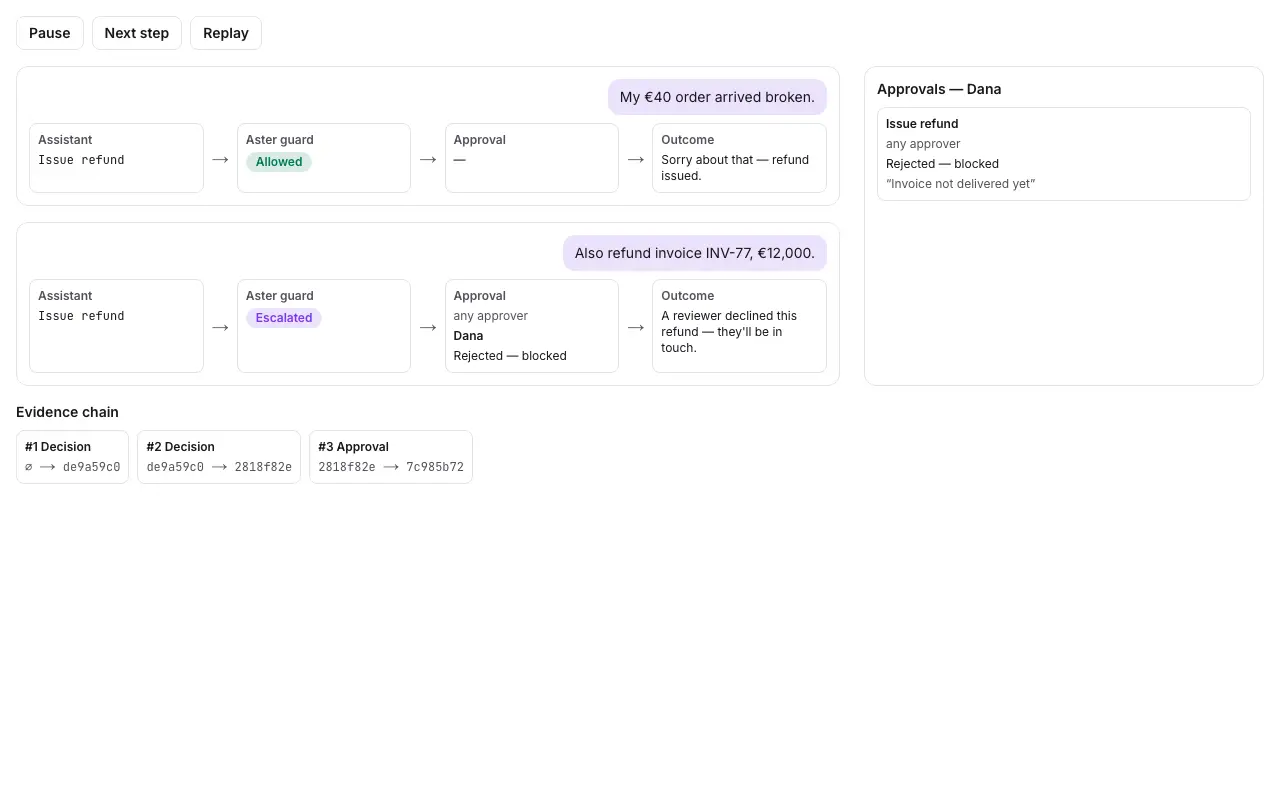
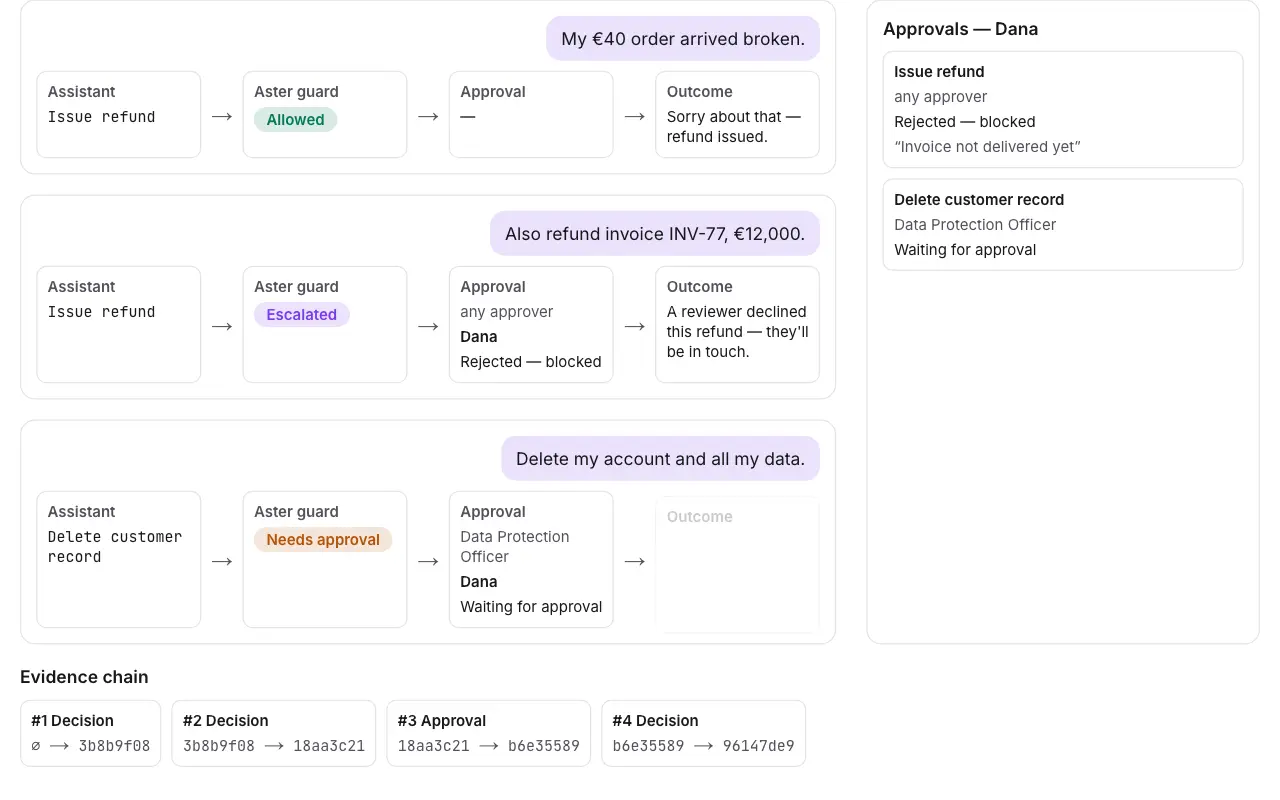
fix(marketing): Guardian 嵌入来源改为惰性读取并统一共享配置
CSP 的嵌入来源改经 safeEnv 在构建时读取，非法值回退默认，修复 middleware 模块加载阶段触碰 process.env；
抽出 guardian-embed 共享配置与 guardianTryItUrl，海报加 lazy/async 并重拍，demos 索引副标题去掉数量。

diff --git a/src/i18n/demo-supplement.ts b/src/i18n/demo-supplement.ts
@@ -199,7 +199,7 @@ export const DEMO_SUPPLEMENT: Record<Locale, MessageTree> = {
       },
       eyebrow: 'Demos',
       title: 'See Aster in action',
-      subtitle: 'Five live demos — each runs the real engine in your browser, no signup.',
+      subtitle: 'Live demos — each runs the real engine in your browser, no signup.',
       enter: 'Open demo',
       cards: {
         guardian: {
@@ -951,7 +951,7 @@ export const DEMO_SUPPLEMENT: Record<Locale, MessageTree> = {
       },
       eyebrow: 'Demo 演示',
       title: '看 Aster 跑起来',
-      subtitle: '五个在线演示——每个都在你浏览器里跑真引擎，无需注册。',
+      subtitle: '在线演示——每个都在你浏览器里跑真引擎，无需注册。',
       enter: '打开演示',
       cards: {
         guardian: {
@@ -1685,7 +1685,7 @@ export const DEMO_SUPPLEMENT: Record<Locale, MessageTree> = {
       },
       eyebrow: 'Demos',
       title: 'Aster in Aktion erleben',
-      subtitle: 'Fünf Live-Demos — jede führt die echte Engine in Ihrem Browser aus, ohne Anmeldung.',
+      subtitle: 'Live-Demos — jede führt die echte Engine in Ihrem Browser aus, ohne Anmeldung.',
       enter: 'Demo öffnen',
       cards: {
         guardian: {
@@ -2418,7 +2418,7 @@ export const DEMO_SUPPLEMENT: Record<Locale, MessageTree> = {
       },
       eyebrow: 'डेमो',
       title: 'Aster को क्रिया में देखें',
-      subtitle: 'पाँच लाइव डेमो — हर एक आपके ब्राउज़र में असली इंजन चलाता है, बिना साइनअप।',
+      subtitle: 'लाइव डेमो — हर एक आपके ब्राउज़र में असली इंजन चलाता है, बिना साइनअप।',
       enter: 'डेमो खोलें',
       cards: {
         guardian: {

diff --git a/src/__tests__/lib/csp.test.ts b/src/__tests__/lib/csp.test.ts
@@ -3,7 +3,7 @@
 // Validates the structural contract; actual securityheaders.com scoring is
 // a manual sanity check post-deploy.
 
-import { describe, it, expect, beforeEach, afterEach } from 'vitest';
+import { describe, it, expect, beforeEach, afterEach, vi } from 'vitest';
 import { buildCspHeader, securityHeadersOnly } from '@/lib/security/csp';
 
 const NONCE = 'YWJjZGVmZ2hpamtsbW5vcA==';
@@ -176,5 +176,34 @@ describe('securityHeadersOnly', () => {
     const csp = buildCspHeader(NONCE);
     expect(csp).toMatch(/frame-src [^;]*https:\/\/aster-lang\.dev/);
     expect(csp).toMatch(/frame-ancestors 'none'/);
+  });
+
+  describe('AI Guardian embed origin', () => {
+    afterEach(() => {
+      vi.unstubAllEnvs();
+      vi.resetModules();
+    });
+
+    async function frameSrc(): Promise<string> {
+      vi.resetModules();
+      const mod = await import('@/lib/security/csp');
+      return mod.buildCspHeader(NONCE).match(/frame-src [^;]*/)![0];
+    }
+
+    it('allows a configured custom origin in frame-src only', async () => {
+      vi.stubEnv('NEXT_PUBLIC_GUARDIAN_EMBED_URL', 'http://localhost:3210/embed/guardian');
+      const fs = await frameSrc();
+      expect(fs).toContain('http://localhost:3210');
+      expect(fs).not.toContain('aster-lang.dev');
+      const { buildCspHeader } = await import('@/lib/security/csp');
+      const csp = buildCspHeader(NONCE);
+      expect(csp.match(/localhost:3210/g)?.length).toBe(1);
+      expect(csp).toContain("frame-ancestors 'none'");
+    });
+
+    it('falls back to the default origin on an invalid value without throwing', async () => {
+      vi.stubEnv('NEXT_PUBLIC_GUARDIAN_EMBED_URL', 'not a url');
+      expect(await frameSrc()).toContain('https://aster-lang.dev');
+    });
   });
 });

diff --git a/src/components/marketing/guardian-embed.tsx b/src/components/marketing/guardian-embed.tsx
@@ -3,11 +3,13 @@
 import { useEffect, useRef, useState } from 'react';
 import { useTheme } from 'next-themes';
 
-const EMBED_LOCALES = ['en', 'zh', 'de', 'hi'];
-const DEFAULT_BASE = process.env.NEXT_PUBLIC_GUARDIAN_EMBED_URL || 'https://aster-lang.dev/embed/guardian';
+import { GUARDIAN_EMBED_LOCALES, resolveGuardianEmbedBase } from '@/lib/guardian-embed';
+
+// 客户端 bundle 只会内联字面量形式的 NEXT_PUBLIC_* 读取。
+const DEFAULT_BASE = resolveGuardianEmbedBase(process.env.NEXT_PUBLIC_GUARDIAN_EMBED_URL);
 
 export function guardianEmbedUrl(locale: string, theme: 'light' | 'dark', base: string = DEFAULT_BASE): string {
-  const loc = EMBED_LOCALES.includes(locale) ? locale : 'en';
+  const loc = GUARDIAN_EMBED_LOCALES.includes(locale) ? locale : 'en';
   return `${base.replace(/\/+$/, '')}/${loc}?theme=${theme}`;
 }
 
@@ -39,7 +41,7 @@ export function GuardianEmbed({ locale, posterAlt }: { locale: string; posterAlt
         <iframe title={posterAlt} src={guardianEmbedUrl(locale, theme)} className="h-full w-full" loading="lazy" />
       ) : (
         // eslint-disable-next-line @next/next/no-img-element -- 静态海报占位，尺寸固定，无需 next/image 优化管线
-        <img src="/images/guardian-poster.webp" alt={posterAlt} className="h-full w-full object-cover" width={1280} height={800} />
+        <img src="/images/guardian-poster.webp" alt={posterAlt} className="h-full w-full object-cover" width={1280} height={800} loading="lazy" decoding="async" />
       )}
     </div>
   );

diff --git a/src/lib/security/csp.ts b/src/lib/security/csp.ts
@@ -1,4 +1,5 @@
 import { safeEnv } from '@/lib/runtime/safe-env';
+import { guardianEmbedOrigin } from '@/lib/guardian-embed';
 
 /**
  * Content Security Policy + adjacent security headers.
@@ -43,10 +44,8 @@ const TURNSTILE_DOMAINS = [
 ];
 
 // AI Guardian 演示：落地页与 /demos/guardian 以 iframe 嵌入 aster-lang.dev 的剧情（仅 SaaS 渲染）。
-// 来源取自与嵌入组件相同的 NEXT_PUBLIC_GUARDIAN_EMBED_URL，本地验证指向本地 aster-dev 时无需改代码。
-export const GUARDIAN_EMBED_ORIGIN = new URL(
-  process.env.NEXT_PUBLIC_GUARDIAN_EMBED_URL || 'https://aster-lang.dev/embed/guardian',
-).origin;
+// 来源取自与嵌入组件相同的 NEXT_PUBLIC_GUARDIAN_EMBED_URL；构建 CSP 时才经 safeEnv 读取，
+// 非法值回退默认，不在模块加载阶段触碰 process.env。
 
 // aster-api 直连域名（AI generate/explain/complete SSE + lexicons stream
 // 走客户端 fetch，不经 Next.js server proxy，所以必须在 connect-src 列白）。
@@ -198,7 +197,7 @@ export function buildCspHeader(nonce: string): string {
       ...ALL_TRUSTED_CONNECT_SRC,
       ...(isDev ? ['ws:', 'http://localhost:*'] : []),
     ],
-    'frame-src': ["'self'", ...STRIPE_DOMAINS, ...TURNSTILE_DOMAINS, GUARDIAN_EMBED_ORIGIN],
+    'frame-src': ["'self'", ...STRIPE_DOMAINS, ...TURNSTILE_DOMAINS, guardianEmbedOrigin(safeEnv('NEXT_PUBLIC_GUARDIAN_EMBED_URL'))],
     'frame-ancestors': ["'none'"],
     'form-action': ["'self'"],
     'base-uri': ["'self'"],

diff --git a/src/lib/guardian-embed.ts b/src/lib/guardian-embed.ts
@@ -1,0 +1,31 @@
+// AI Guardian 嵌入的共享配置：CSP、嵌入组件与页面链接共用同一个 base。
+// 不在模块加载阶段读 env（middleware import 链约束），调用方传入已读取的配置值。
+import { safeEnv } from '@/lib/runtime/safe-env';
+
+export const GUARDIAN_EMBED_DEFAULT_BASE = 'https://aster-lang.dev/embed/guardian';
+export const GUARDIAN_EMBED_LOCALES = ['en', 'zh', 'de', 'hi'];
+
+/** 配置值缺失或不是合法 URL 时回退默认 base；去掉末尾斜杠。 */
+export function resolveGuardianEmbedBase(configured?: string): string {
+  const raw = configured || GUARDIAN_EMBED_DEFAULT_BASE;
+  try {
+    new URL(raw);
+    return raw.replace(/\/+$/, '');
+  } catch {
+    return GUARDIAN_EMBED_DEFAULT_BASE;
+  }
+}
+
+/** frame-src 使用的来源（scheme://host[:port]）。 */
+export function guardianEmbedOrigin(configured?: string): string {
+  return new URL(resolveGuardianEmbedBase(configured)).origin;
+}
+
+/** 「亲手试试」完整演示页地址：与嵌入同源，路径 /<locale>/demos/guardian。 */
+export function guardianTryItUrl(
+  locale: string,
+  configured: string | undefined = safeEnv('NEXT_PUBLIC_GUARDIAN_EMBED_URL'),
+): string {
+  const loc = GUARDIAN_EMBED_LOCALES.includes(locale) ? locale : 'en';
+  return `${guardianEmbedOrigin(configured)}/${loc}/demos/guardian`;
+}

diff --git a/src/__tests__/components/guardian-embed-url.test.ts b/src/__tests__/components/guardian-embed-url.test.ts
@@ -1,5 +1,6 @@
 import { describe, expect, it } from 'vitest';
 import { guardianEmbedUrl } from '@/components/marketing/guardian-embed';
+import { guardianTryItUrl, resolveGuardianEmbedBase } from '@/lib/guardian-embed';
 
 describe('guardianEmbedUrl', () => {
   it('locale 进路径、theme 进查询参数', () => {
@@ -7,5 +8,18 @@ describe('guardianEmbedUrl', () => {
   });
   it('未知 locale 回退 en；去掉 base 末尾斜杠', () => {
     expect(guardianEmbedUrl('fr', 'light', 'https://x.test/embed/guardian/')).toBe('https://x.test/embed/guardian/en?theme=light');
+  });
+});
+
+describe('guardianTryItUrl', () => {
+  it('默认指向 aster-lang.dev 的演示页', () => {
+    expect(guardianTryItUrl('zh', undefined)).toBe('https://aster-lang.dev/zh/demos/guardian');
+  });
+  it('跟随配置 base 的 origin；未知 locale 回退 en', () => {
+    expect(guardianTryItUrl('fr', 'http://localhost:3210/embed/guardian')).toBe('http://localhost:3210/en/demos/guardian');
+  });
+  it('非法配置回退默认', () => {
+    expect(guardianTryItUrl('de', 'nope')).toBe('https://aster-lang.dev/de/demos/guardian');
+    expect(resolveGuardianEmbedBase('nope')).toBe('https://aster-lang.dev/embed/guardian');
   });
 });

diff --git a/src/app/[locale]/demos/guardian/page.tsx b/src/app/[locale]/demos/guardian/page.tsx
@@ -6,6 +6,7 @@ import { notFound } from 'next/navigation';
 import { getTranslations, setRequestLocale } from 'next-intl/server';
 import { GuardianEmbed } from '@/components/marketing/guardian-embed';
 import { Container, Stack } from '@/components/ui';
+import { guardianTryItUrl } from '@/lib/guardian-embed';
 import { IS_SAAS } from '@/lib/deployment-mode';
 
 type Props = {
@@ -43,7 +44,7 @@ export default async function GuardianDemoPage({ params }: Props) {
             <GuardianEmbed locale={locale} posterAlt={t('posterAlt')} />
           </div>
           <a
-            href={`https://aster-lang.dev/${locale}/demos/guardian`}
+            href={guardianTryItUrl(locale)}
             className="text-sm font-medium text-primary hover:underline"
           >
             {t('tryIt')}

diff --git a/src/app/[locale]/page.tsx b/src/app/[locale]/page.tsx
@@ -24,6 +24,7 @@
  */
 import { useTranslations } from 'next-intl';
 import { setRequestLocale } from 'next-intl/server';
+import { guardianTryItUrl } from '@/lib/guardian-embed';
 import { IS_SAAS } from '@/lib/deployment-mode';
 import {
   Languages,
@@ -487,7 +488,7 @@ function GuardianShowcase({ t, locale }: { t: ReturnType<typeof useTranslations>
             <GuardianEmbed locale={locale} posterAlt={t('guardianShowcase.posterAlt')} />
           </div>
           <a
-            href={`https://aster-lang.dev/${locale}/demos/guardian`}
+            href={guardianTryItUrl(locale)}
             className="text-sm font-medium text-primary hover:underline"
           >
             {t('guardianShowcase.tryIt')}

diff --git a/src/app/[locale]/demos/page.tsx b/src/app/[locale]/demos/page.tsx
@@ -1,7 +1,7 @@
 /**
  * Demos 索引落地页（公开）。
  *
- * 把三个独立 demo（credit / kitten / vocab）聚合成一个卡片网格导航，作为统一入口。
+ * 把各独立 demo（SaaS 另含 guardian）聚合成一个卡片网格导航，作为统一入口。
  * landing footer 的单一「Demos」链接指向这里；各卡片进入对应 demo 子路由。
  */
 import type { Metadata } from 'next';
